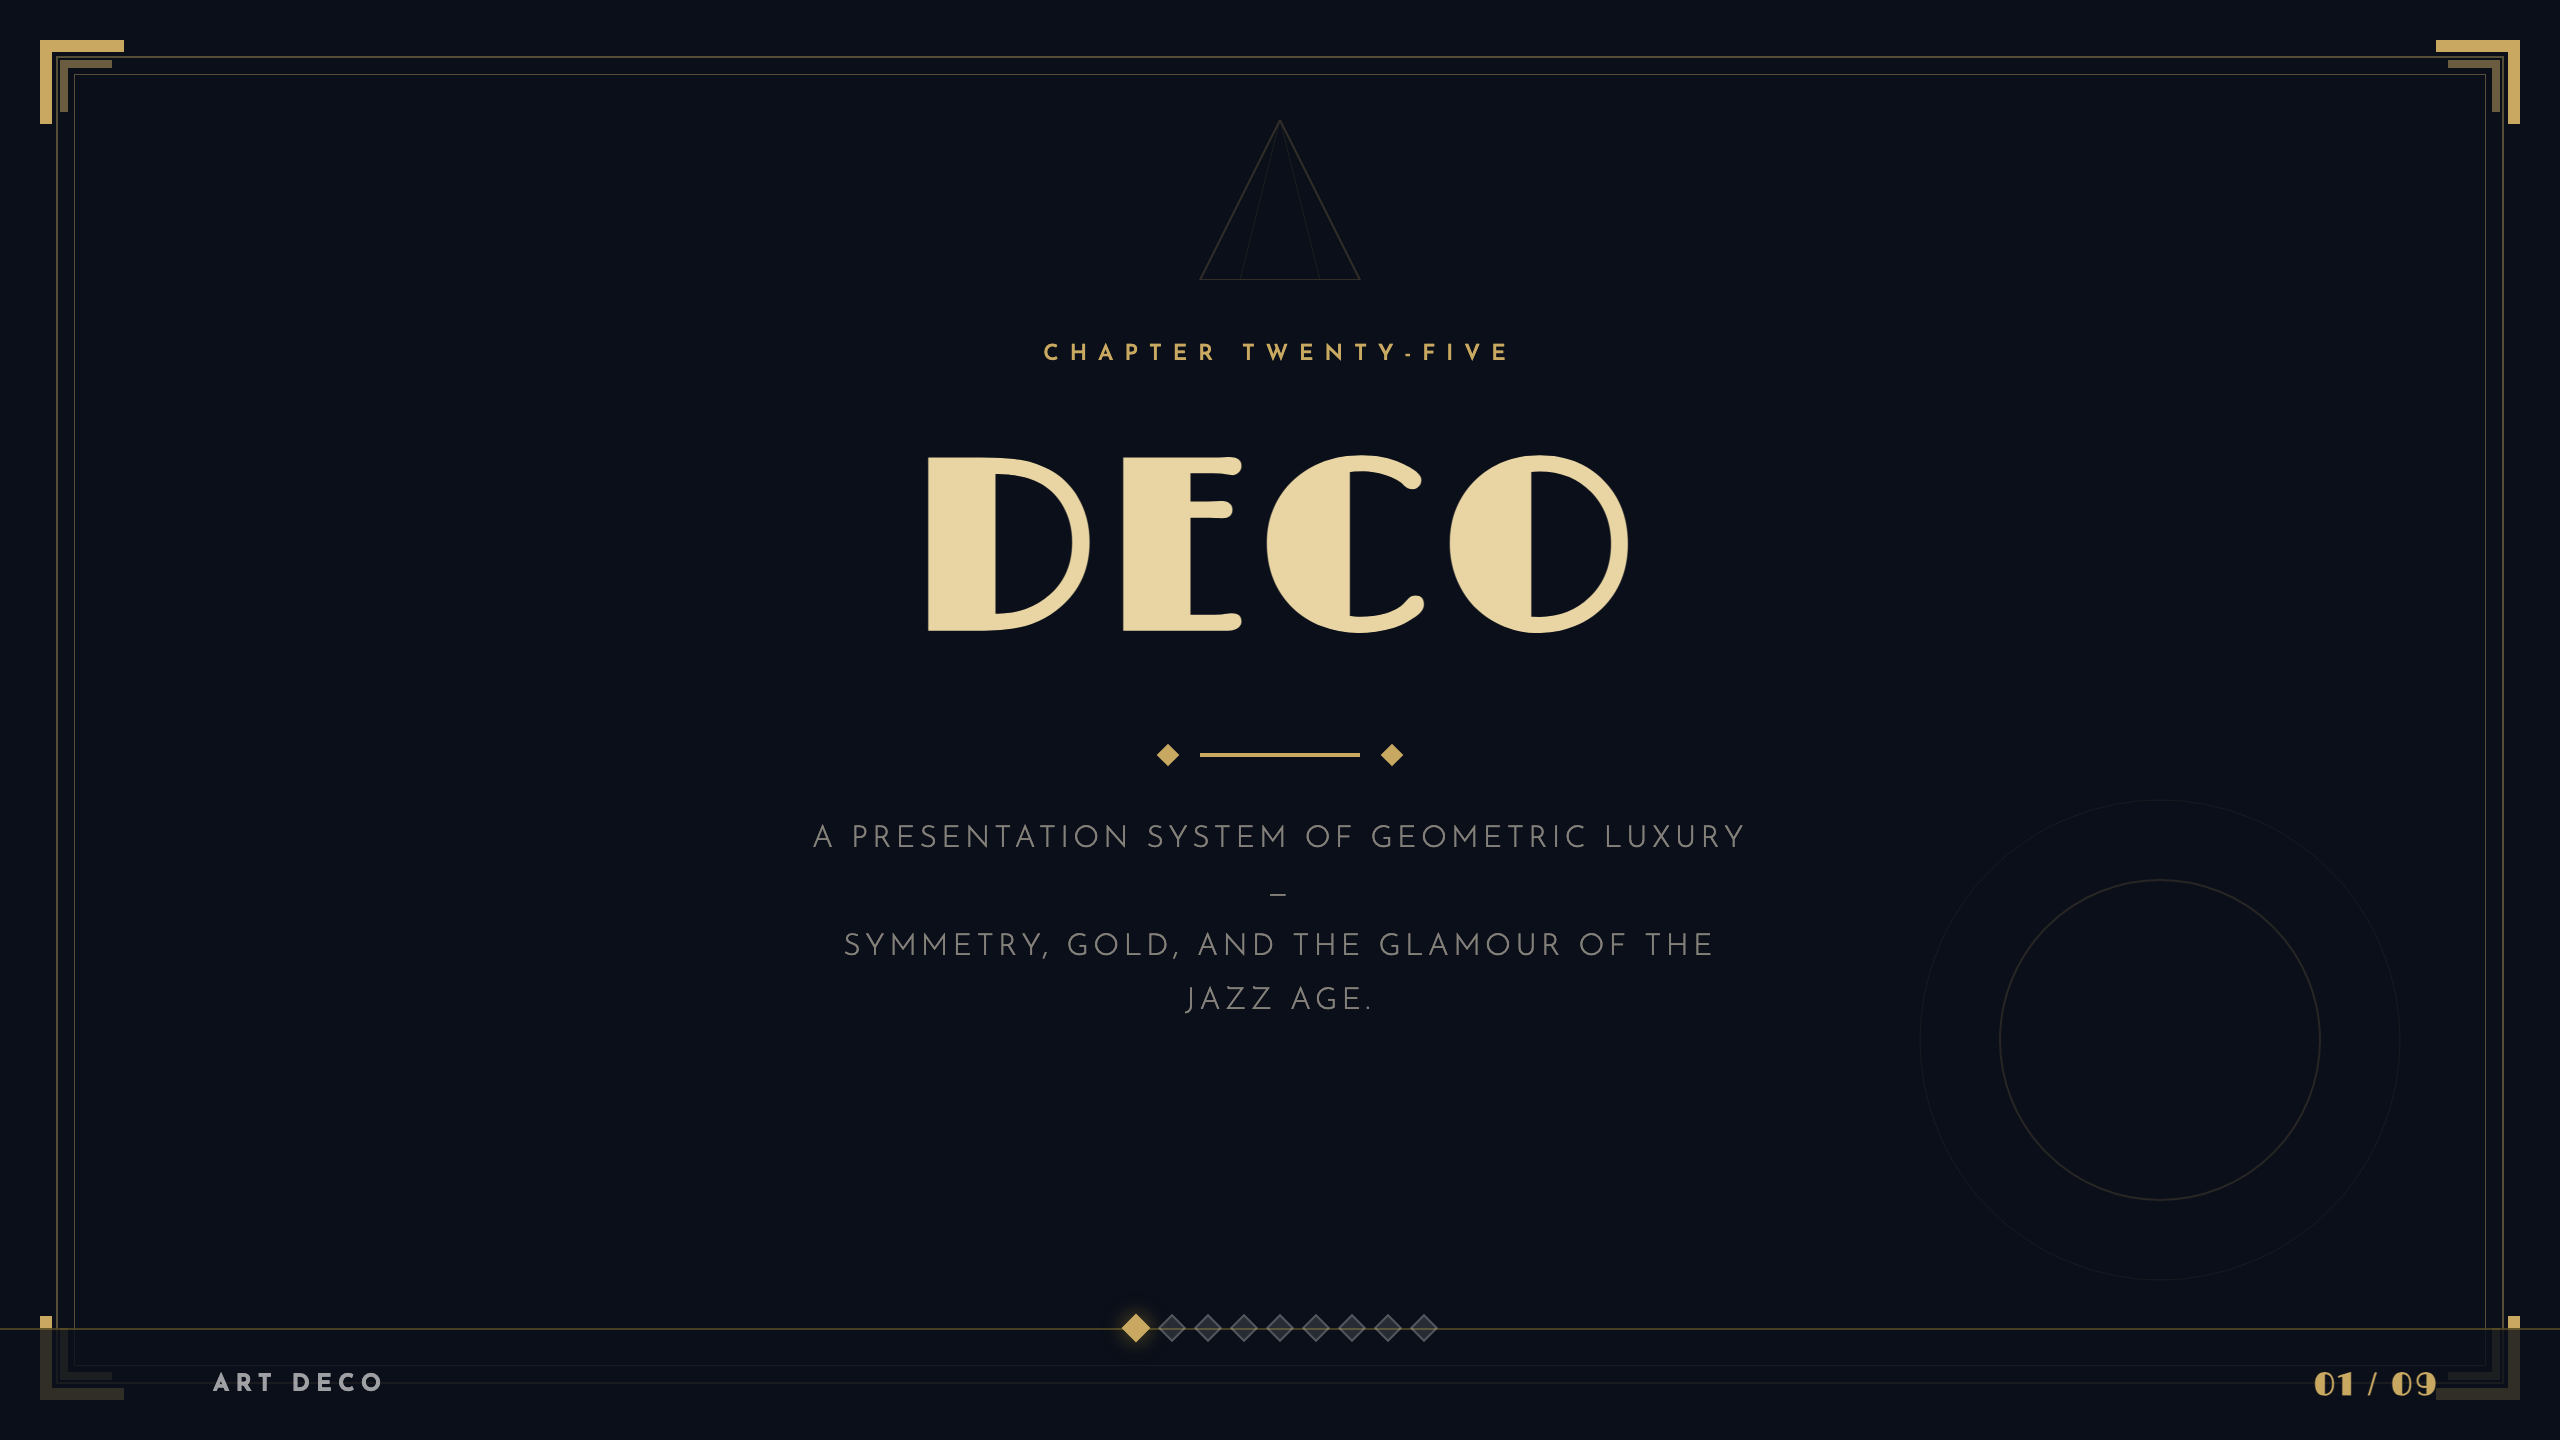
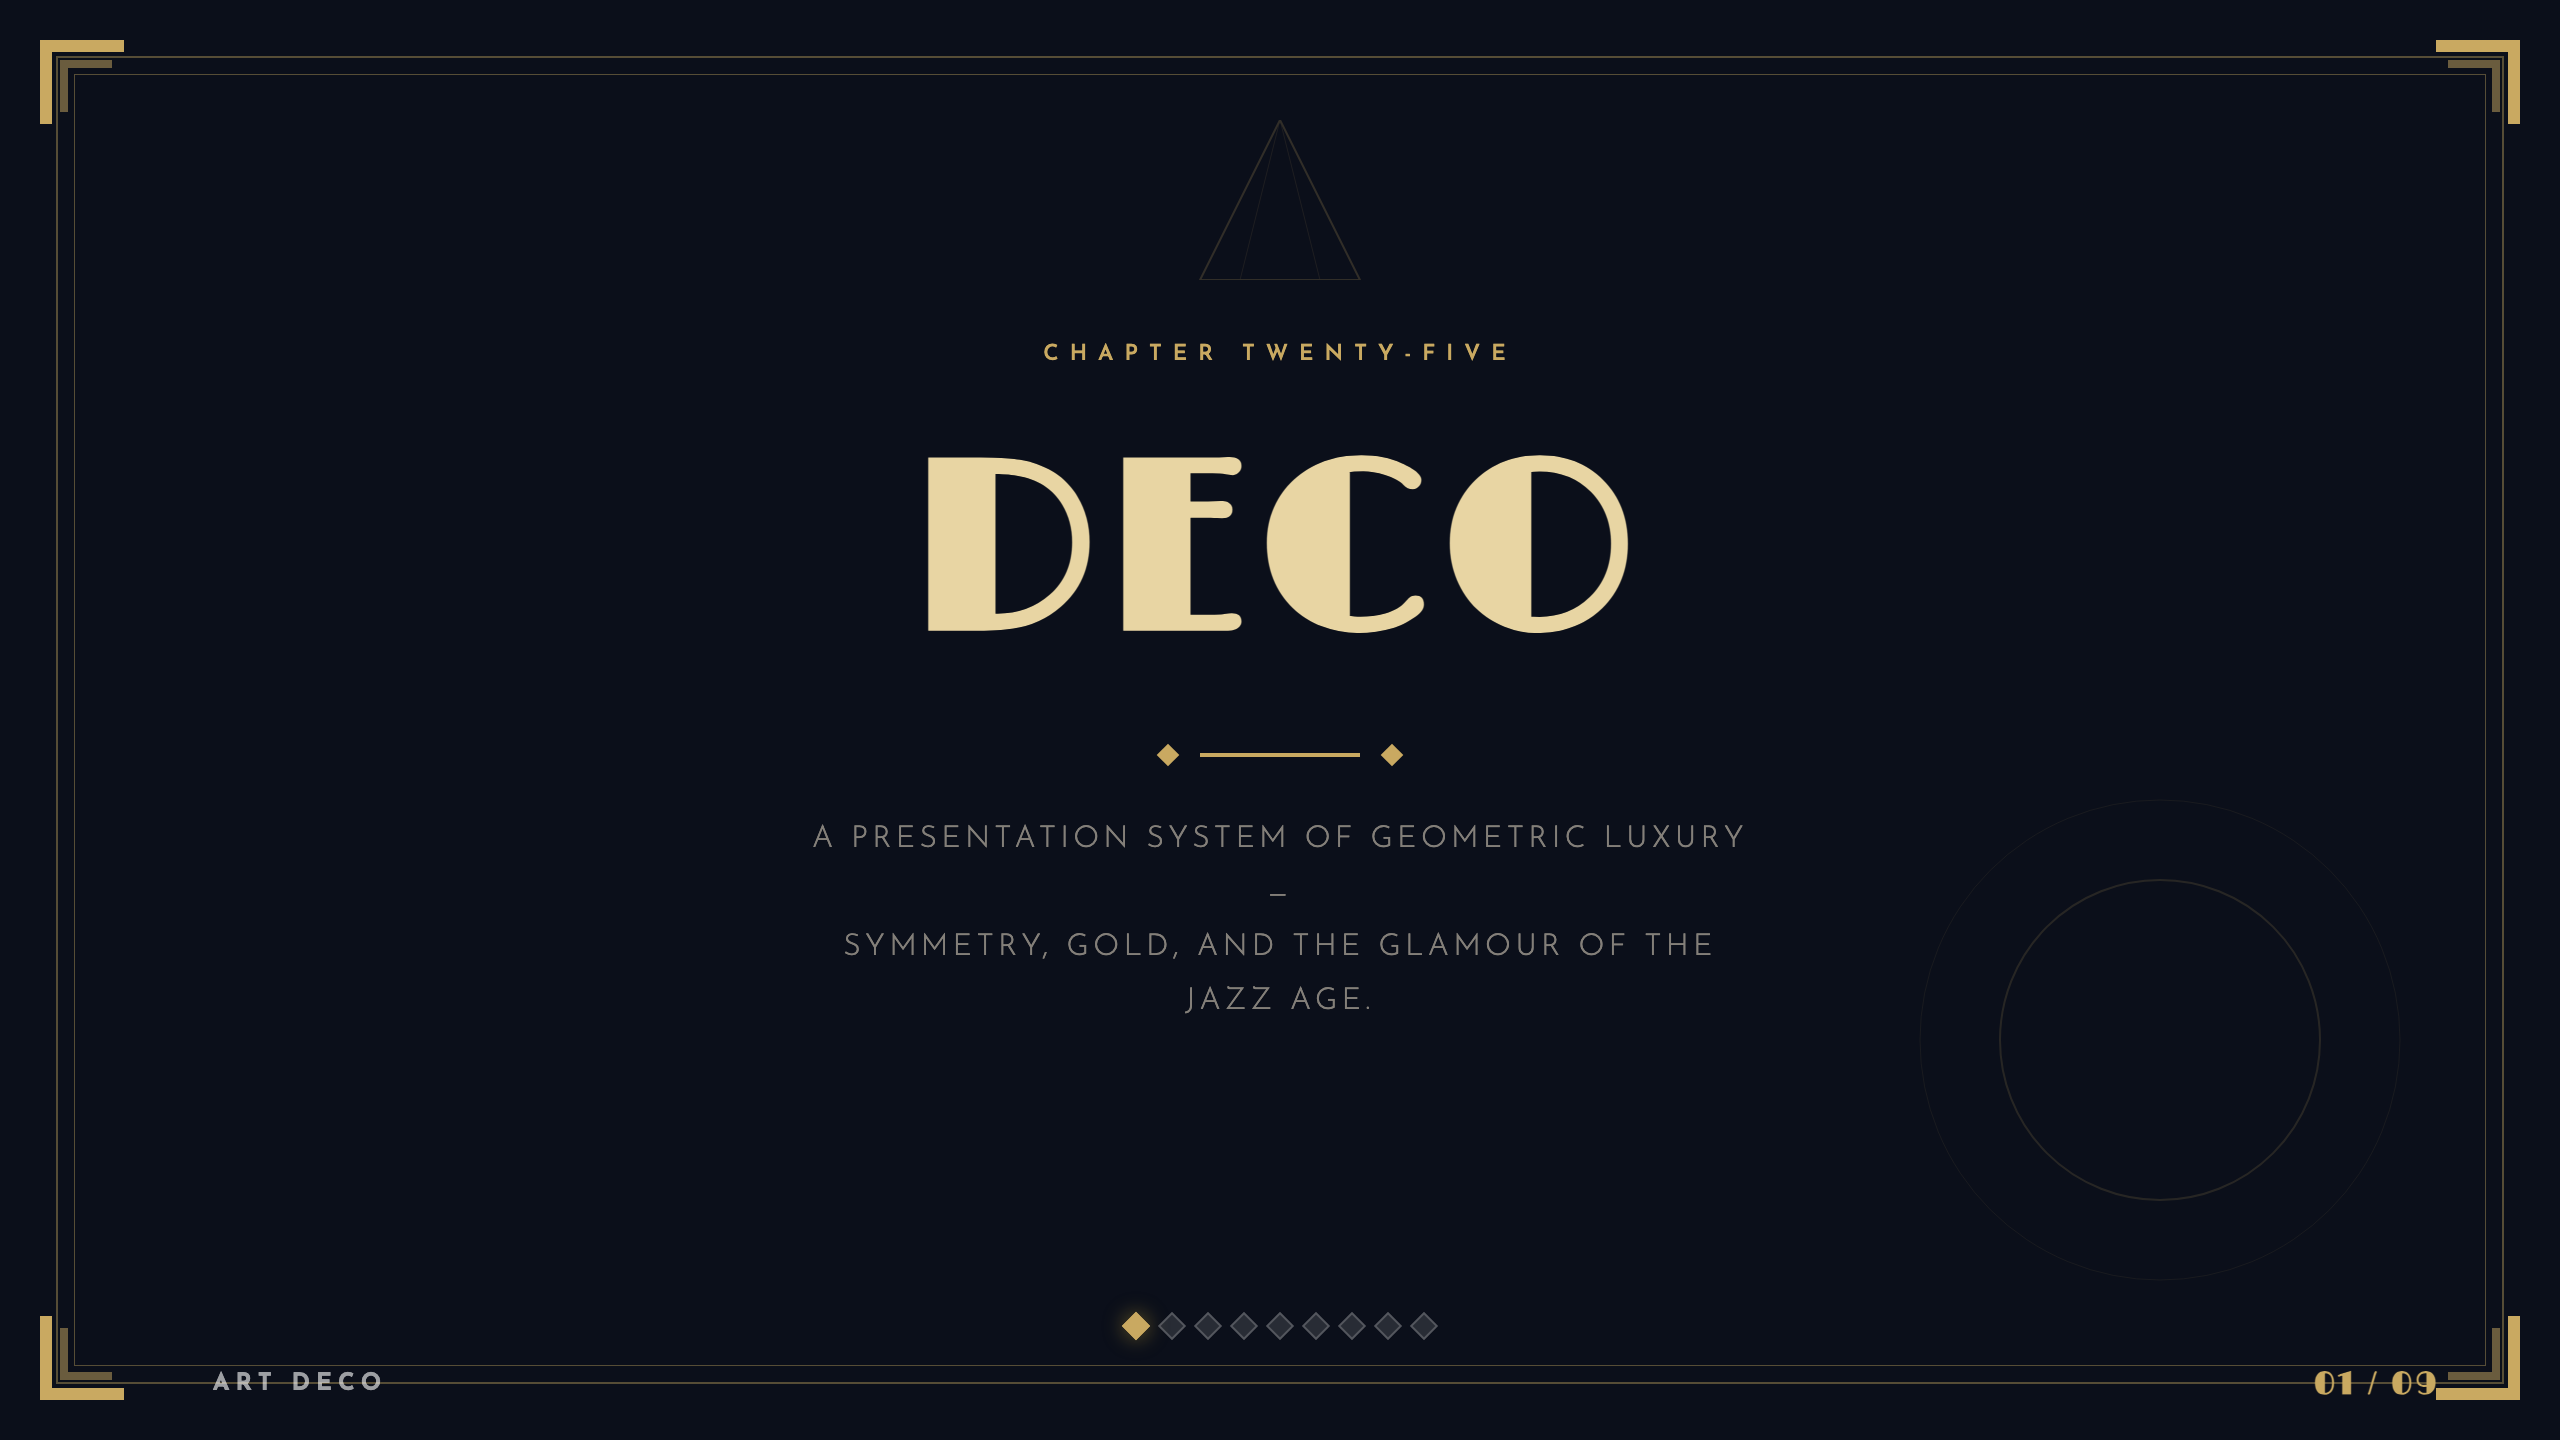
fix: remove all progress bar backgrounds and borders from all 25 templates — progress bar is floating text+segments, not a container; refresh all previews; update AGENT_GUIDE rules

diff --git a/templates/24-vaporwave/example.html b/templates/24-vaporwave/example.html
@@ -56,7 +56,7 @@
   p, li { font-family: var(--font-cn); font-size: 15px; color: rgba(255,255,255,0.85); line-height: 1.8; }
 
   /* Bottom bar */
-  .bottom-bar { position: absolute; bottom: 0; left: 0; right: 0; height: 50px; background: rgba(13,5,32,0.7); backdrop-filter: blur(8px); border-top: 1px solid rgba(255,113,206,0.3); z-index: 20; display: flex; align-items: center; justify-content: space-between; padding: 0 80px; }
+  .bottom-bar { position: absolute; bottom: 0; left: 0; right: 0; height: 50px; backdrop-filter: blur(8px); z-index: 20; display: flex; align-items: center; justify-content: space-between; padding: 0 80px; }
   .bottom-bar span { font-family: var(--font-display); font-size: 10px; font-weight: 700; letter-spacing: 0.3em; text-transform: uppercase; color: var(--cyan); text-shadow: 0 0 6px var(--cyan); }
   .bottom-bar .num { color: var(--pink); text-shadow: 0 0 8px var(--pink); }
 
@@ -152,9 +152,7 @@
     position: absolute; bottom: 0; left: 0; right: 0;
     height: 56px; display: flex; align-items: center; justify-content: space-between;
     padding: 0 60px; z-index: 50;
-    background: rgba(13,5,32,0.85);
-    border-top: 1px solid rgba(255,113,206,0.3);
-  }
+    }
   .progress-bar .pb-section {
     font-family: var(--font-display); font-size: 12px; font-weight: 700;
     letter-spacing: 0.25em; text-transform: uppercase;

diff --git a/templates/22-bauhaus/example.html b/templates/22-bauhaus/example.html
@@ -46,7 +46,7 @@
   p, li { font-family: var(--font-cn); font-size: 15px; color: #333; line-height: 1.8; }
 
   /* Bottom bar */
-  .bottom-bar { position: absolute; bottom: 0; left: 0; right: 0; height: 60px; background: var(--black); z-index: 5; display: flex; align-items: center; justify-content: space-between; padding: 0 60px; }
+  .bottom-bar { position: absolute; bottom: 0; left: 0; right: 0; height: 60px; z-index: 5; display: flex; align-items: center; justify-content: space-between; padding: 0 60px; }
   .bottom-bar .bar-label { font-family: var(--font-display); font-size: 13px; font-weight: 900; letter-spacing: 0.25em; text-transform: uppercase; color: var(--black); min-width: 200px; }
   .bottom-bar .bar-page { font-family: var(--font-display); font-size: 18px; font-weight: 900; letter-spacing: 0.1em; color: var(--yellow); }
   .title-slide .bottom-bar { height: 80px; }

diff --git a/templates/19-deco/example.html b/templates/19-deco/example.html
@@ -160,9 +160,7 @@
     position: absolute; bottom: 0; left: 0; right: 0;
     height: 56px; display: flex; align-items: center; justify-content: space-between;
     padding: 0 60px; z-index: 50;
-    background: rgba(10,15,25,0.8);
-    border-top: 1px solid rgba(212,175,55,0.3);
-  }
+    }
   .progress-bar .pb-section {
     font-family: var(--font-sans); font-size: 12px; font-weight: 700;
     letter-spacing: 0.25em; text-transform: uppercase;

diff --git a/templates/09-neon/example.html b/templates/09-neon/example.html
@@ -178,9 +178,7 @@
     position: absolute; bottom: 0; left: 0; right: 0;
     height: 56px; display: flex; align-items: center; justify-content: space-between;
     padding: 0 60px; z-index: 50;
-    background: rgba(13,2,33,0.8);
-    border-top: 1px solid rgba(255,46,151,0.3);
-  }
+    }
   .progress-bar .pb-section {
     font-family: var(--font-mono); font-size: 12px; font-weight: 700;
     letter-spacing: 0.25em; text-transform: uppercase;

diff --git a/templates/11-electric/example.html b/templates/11-electric/example.html
@@ -144,9 +144,7 @@
     position: absolute; bottom: 0; left: 0; right: 0;
     height: 56px; display: flex; align-items: center; justify-content: space-between;
     padding: 0 60px; z-index: 50;
-    background: rgba(0,0,0,0.3);
-    border-top: 1px solid rgba(255,255,255,0.15);
-  }
+    }
   .progress-bar .pb-section {
     font-family: var(--font-sans); font-size: 12px; font-weight: 700;
     letter-spacing: 0.25em; text-transform: uppercase;

diff --git a/templates/25-wong-kar-wai/example.html b/templates/25-wong-kar-wai/example.html
@@ -154,9 +154,7 @@
     position: absolute; bottom: 0; left: 0; right: 0;
     height: 56px; display: flex; align-items: center; justify-content: space-between;
     padding: 0 60px; z-index: 50;
-    background: rgba(20,10,5,0.7);
-    border-top: 1px solid rgba(200,150,80,0.2);
-  }
+    }
   .progress-bar .pb-section {
     font-family: var(--font-sans); font-size: 12px; font-weight: 700;
     letter-spacing: 0.25em; text-transform: uppercase;

diff --git a/templates/07-noir/example.html b/templates/07-noir/example.html
@@ -408,9 +408,7 @@
     position: absolute; bottom: 0; left: 0; right: 0;
     height: 56px; display: flex; align-items: center; justify-content: space-between;
     padding: 0 60px; z-index: 50;
-    background: rgba(0,0,0,0.5);
-    border-top: rgba(212,175,106,0.2);
-  }
+    }
   .progress-bar .pb-section {
     font-family: var(--font-sans); font-size: 12px; font-weight: 700;
     letter-spacing: 0.25em; text-transform: uppercase;

diff --git a/templates/04-light-as-air/example.html b/templates/04-light-as-air/example.html
@@ -399,9 +399,7 @@
     position: absolute; bottom: 0; left: 0; right: 0;
     height: 56px; display: flex; align-items: center; justify-content: space-between;
     padding: 0 60px; z-index: 50;
-    background: transparent;
-    border-top: rgba(0,0,0,0.06);
-  }
+    }
   .progress-bar .pb-section {
     font-family: var(--font-sans); font-size: 12px; font-weight: 700;
     letter-spacing: 0.25em; text-transform: uppercase;

diff --git a/templates/10-pop/example.html b/templates/10-pop/example.html
@@ -173,9 +173,7 @@
     position: absolute; bottom: 0; left: 0; right: 0;
     height: 56px; display: flex; align-items: center; justify-content: space-between;
     padding: 0 60px; z-index: 50;
-    background: var(--yellow, #FFE600);
-    border-top: none;
-  }
+    }
   .progress-bar .pb-section {
     font-family: var(--font-sans); font-size: 12px; font-weight: 700;
     letter-spacing: 0.25em; text-transform: uppercase;

diff --git a/templates/03-soft-space/example.html b/templates/03-soft-space/example.html
@@ -374,9 +374,7 @@
     position: absolute; bottom: 0; left: 0; right: 0;
     height: 56px; display: flex; align-items: center; justify-content: space-between;
     padding: 0 60px; z-index: 50;
-    background: var(--bg);
-    border-top: rgba(0,0,0,0.06);
-  }
+    }
   .progress-bar .pb-section {
     font-family: var(--font-sans); font-size: 12px; font-weight: 700;
     letter-spacing: 0.25em; text-transform: uppercase;

diff --git a/templates/05-breathe/example.html b/templates/05-breathe/example.html
@@ -475,9 +475,7 @@
     position: absolute; bottom: 0; left: 0; right: 0;
     height: 56px; display: flex; align-items: center; justify-content: space-between;
     padding: 0 60px; z-index: 50;
-    background: var(--bg);
-    border-top: rgba(0,0,0,0.06);
-  }
+    }
   .progress-bar .pb-section {
     font-family: var(--font-sans); font-size: 12px; font-weight: 700;
     letter-spacing: 0.25em; text-transform: uppercase;

diff --git a/templates/23-risograph/example.html b/templates/23-risograph/example.html
@@ -146,9 +146,7 @@
     position: absolute; bottom: 0; left: 0; right: 0;
     height: 56px; display: flex; align-items: center; justify-content: space-between;
     padding: 0 60px; z-index: 50;
-    background: var(--paper, #F5F0E8);
-    border-top: none;
-  }
+    }
   .progress-bar .pb-section {
     font-family: var(--font-sans); font-size: 12px; font-weight: 700;
     letter-spacing: 0.25em; text-transform: uppercase;
